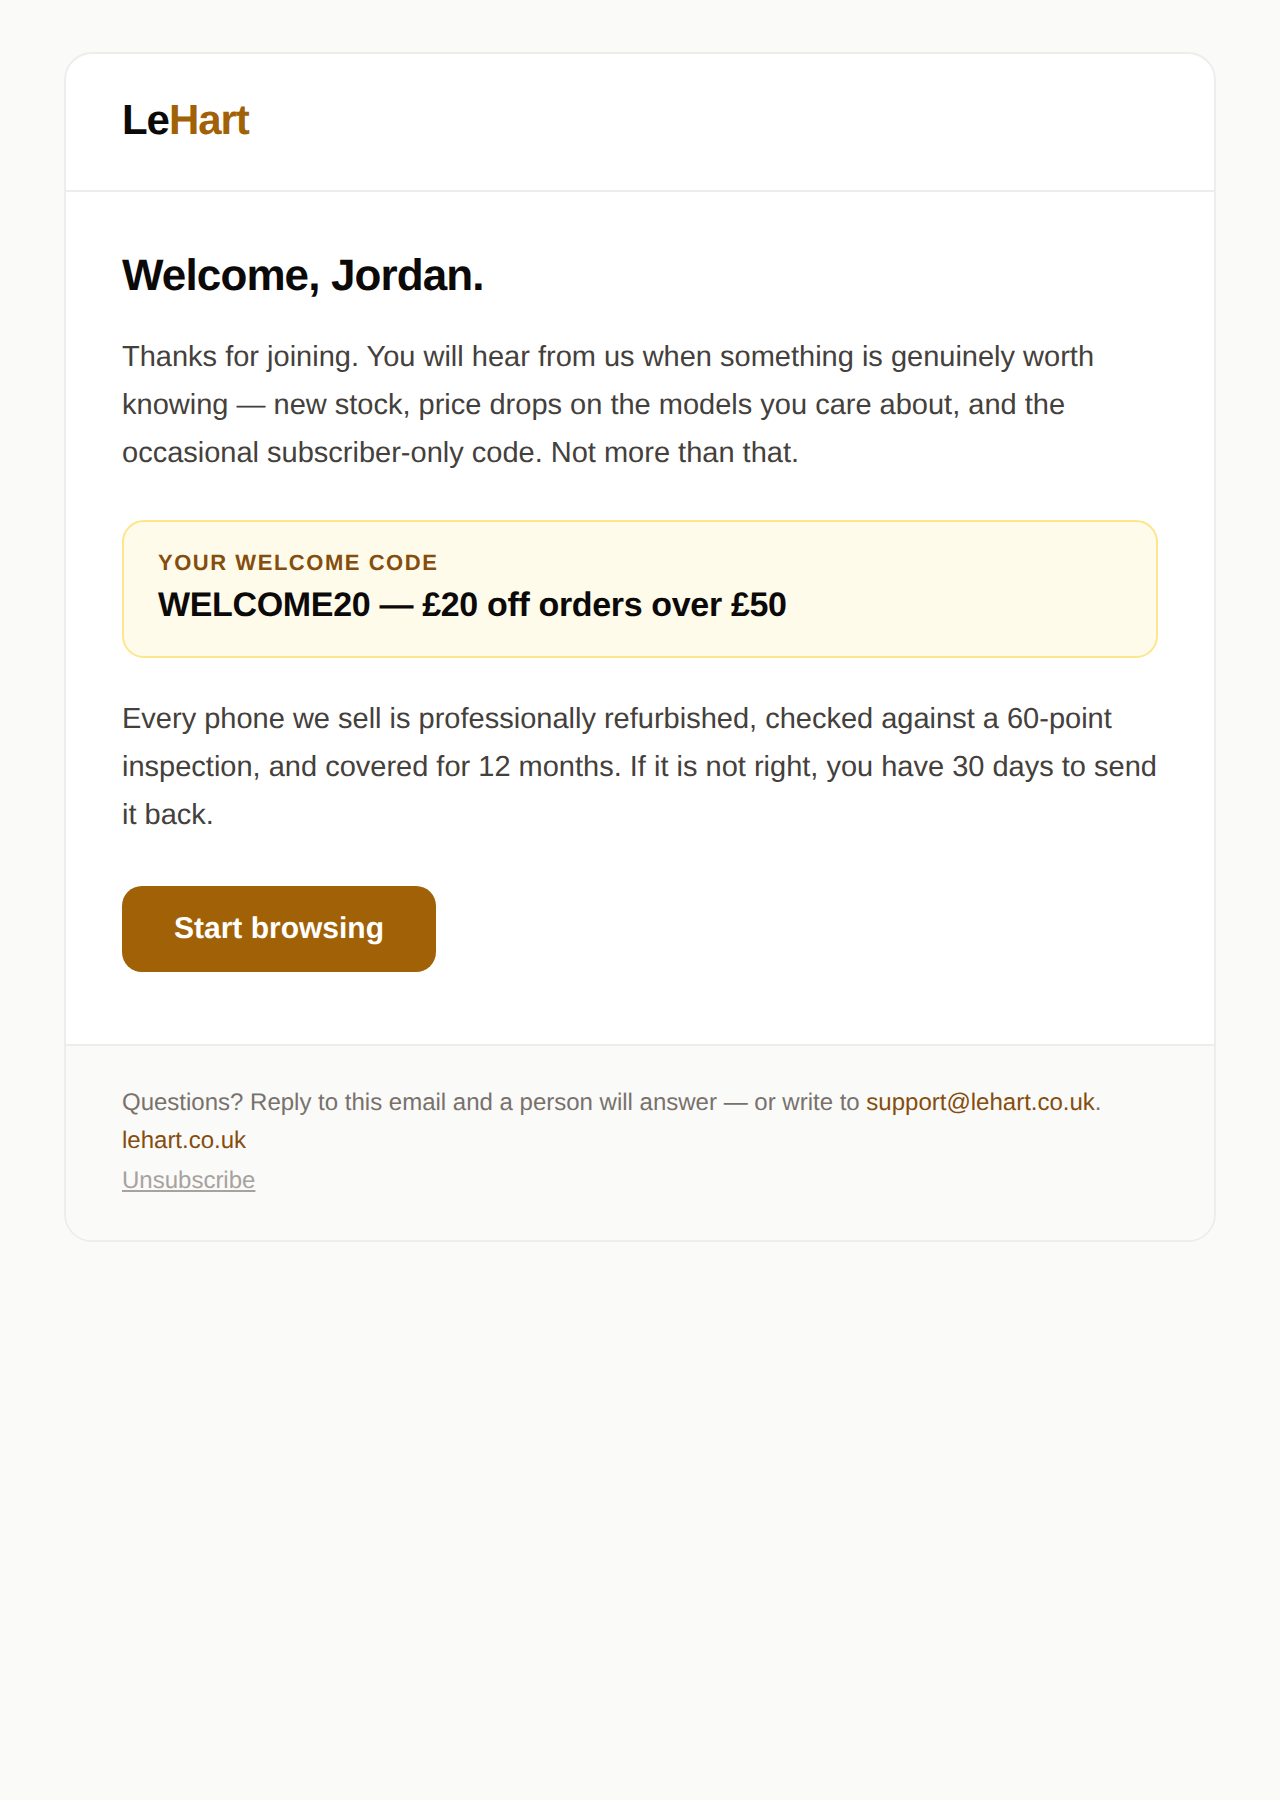
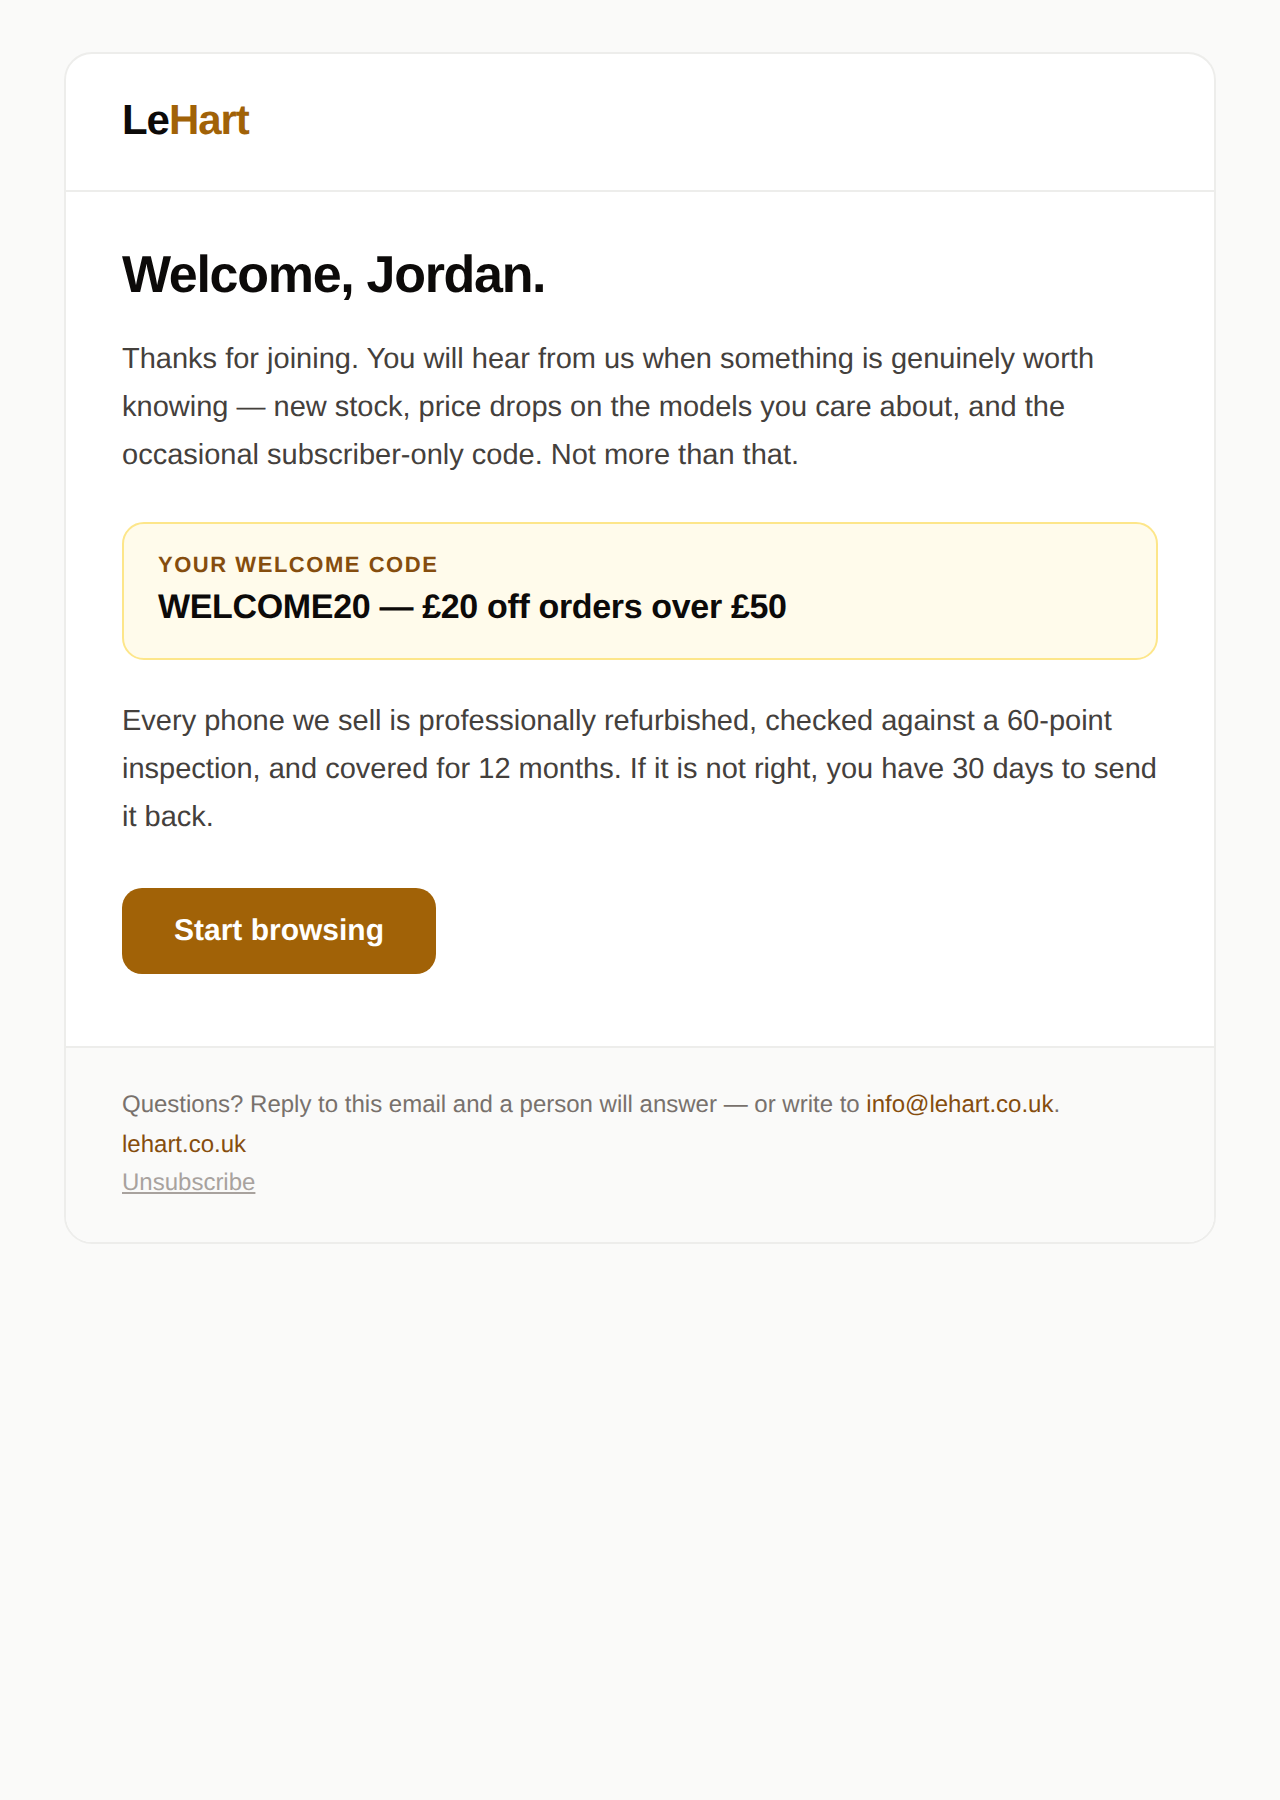
docs: regenerate the email previews
The HTML in docs/email-previews was stale and the PNGs were ten days
older still, so the pictures showed a version of these emails that no
longer existed. Re-rendered from the current templates at 640px, which
is roughly a phone — where nearly all of this mail is read.

Only the preview artefacts change; no template was touched. Dates move
because the samples are generated relative to today.

Two gaps the regeneration made visible and worth noting rather than
hiding: the four returns emails are built inline in return-notify.ts
rather than in _templates.ts, so the generator cannot reach them and
they have no preview at all. And a Chromium render says nothing about
Outlook, which uses Word's engine — the reason every template is tables
rather than flexbox, and something only a real send can confirm.

Claude-Session: https://claude.ai/code/session_01X87B1DePXydz9QYTmFaxZy

diff --git a/docs/email-previews/order-confirmation.html b/docs/email-previews/order-confirmation.html
@@ -4,10 +4,10 @@
 <meta name="viewport" content="width=device-width,initial-scale=1">
 <meta name="color-scheme" content="light only">
 <meta name="supported-color-schemes" content="light only">
-<title>Arriving Tuesday 1 Sept</title>
+<title>Arriving Wednesday 9 Sept</title>
 </head>
 <body style="margin:0;padding:0;background:#fafaf9;">
-<div style="display:none;max-height:0;overflow:hidden;opacity:0;color:transparent;height:0;width:0;">Arriving Tuesday 1 Sept. 3 items.&#847;&zwnj;&nbsp;&#847;&zwnj;&nbsp;&#847;&zwnj;&nbsp;&#847;&zwnj;&nbsp;&#847;&zwnj;&nbsp;&#847;&zwnj;&nbsp;&#847;&zwnj;&nbsp;&#847;&zwnj;&nbsp;&#847;&zwnj;&nbsp;&#847;&zwnj;&nbsp;&#847;&zwnj;&nbsp;&#847;&zwnj;&nbsp;&#847;&zwnj;&nbsp;&#847;&zwnj;&nbsp;&#847;&zwnj;&nbsp;&#847;&zwnj;&nbsp;&#847;&zwnj;&nbsp;&#847;&zwnj;&nbsp;&#847;&zwnj;&nbsp;&#847;&zwnj;&nbsp;&#847;&zwnj;&nbsp;&#847;&zwnj;&nbsp;&#847;&zwnj;&nbsp;&#847;&zwnj;&nbsp;&#847;&zwnj;&nbsp;&#847;&zwnj;&nbsp;&#847;&zwnj;&nbsp;&#847;&zwnj;&nbsp;&#847;&zwnj;&nbsp;&#847;&zwnj;&nbsp;&#847;&zwnj;&nbsp;&#847;&zwnj;&nbsp;&#847;&zwnj;&nbsp;&#847;&zwnj;&nbsp;&#847;&zwnj;&nbsp;&#847;&zwnj;&nbsp;&#847;&zwnj;&nbsp;&#847;&zwnj;&nbsp;&#847;&zwnj;&nbsp;&#847;&zwnj;&nbsp;&#847;&zwnj;&nbsp;&#847;&zwnj;&nbsp;&#847;&zwnj;&nbsp;&#847;&zwnj;&nbsp;&#847;&zwnj;&nbsp;&#847;&zwnj;&nbsp;&#847;&zwnj;&nbsp;&#847;&zwnj;&nbsp;&#847;&zwnj;&nbsp;&#847;&zwnj;&nbsp;&#847;&zwnj;&nbsp;&#847;&zwnj;&nbsp;&#847;&zwnj;&nbsp;&#847;&zwnj;&nbsp;&#847;&zwnj;&nbsp;&#847;&zwnj;&nbsp;&#847;&zwnj;&nbsp;&#847;&zwnj;&nbsp;&#847;&zwnj;&nbsp;&#847;&zwnj;&nbsp;</div>
+<div style="display:none;max-height:0;overflow:hidden;opacity:0;color:transparent;height:0;width:0;">Arriving Wednesday 9 Sept. 3 items.&#847;&zwnj;&nbsp;&#847;&zwnj;&nbsp;&#847;&zwnj;&nbsp;&#847;&zwnj;&nbsp;&#847;&zwnj;&nbsp;&#847;&zwnj;&nbsp;&#847;&zwnj;&nbsp;&#847;&zwnj;&nbsp;&#847;&zwnj;&nbsp;&#847;&zwnj;&nbsp;&#847;&zwnj;&nbsp;&#847;&zwnj;&nbsp;&#847;&zwnj;&nbsp;&#847;&zwnj;&nbsp;&#847;&zwnj;&nbsp;&#847;&zwnj;&nbsp;&#847;&zwnj;&nbsp;&#847;&zwnj;&nbsp;&#847;&zwnj;&nbsp;&#847;&zwnj;&nbsp;&#847;&zwnj;&nbsp;&#847;&zwnj;&nbsp;&#847;&zwnj;&nbsp;&#847;&zwnj;&nbsp;&#847;&zwnj;&nbsp;&#847;&zwnj;&nbsp;&#847;&zwnj;&nbsp;&#847;&zwnj;&nbsp;&#847;&zwnj;&nbsp;&#847;&zwnj;&nbsp;&#847;&zwnj;&nbsp;&#847;&zwnj;&nbsp;&#847;&zwnj;&nbsp;&#847;&zwnj;&nbsp;&#847;&zwnj;&nbsp;&#847;&zwnj;&nbsp;&#847;&zwnj;&nbsp;&#847;&zwnj;&nbsp;&#847;&zwnj;&nbsp;&#847;&zwnj;&nbsp;&#847;&zwnj;&nbsp;&#847;&zwnj;&nbsp;&#847;&zwnj;&nbsp;&#847;&zwnj;&nbsp;&#847;&zwnj;&nbsp;&#847;&zwnj;&nbsp;&#847;&zwnj;&nbsp;&#847;&zwnj;&nbsp;&#847;&zwnj;&nbsp;&#847;&zwnj;&nbsp;&#847;&zwnj;&nbsp;&#847;&zwnj;&nbsp;&#847;&zwnj;&nbsp;&#847;&zwnj;&nbsp;&#847;&zwnj;&nbsp;&#847;&zwnj;&nbsp;&#847;&zwnj;&nbsp;&#847;&zwnj;&nbsp;&#847;&zwnj;&nbsp;&#847;&zwnj;&nbsp;</div>
 <table role="presentation" width="100%" cellpadding="0" cellspacing="0" style="background:#fafaf9;padding:26px 14px;">
 <tr><td align="center">
   <table role="presentation" width="100%" cellpadding="0" cellspacing="0" style="max-width:576px;background:#ffffff;border:1px solid #ededeb;border-radius:14px;overflow:hidden;">
@@ -20,7 +20,7 @@
 
     <tr><td style="padding:26px 28px 30px;">
       <div style="font-family:'Nunito Sans','Rubik',-apple-system,BlinkMacSystemFont,'Segoe UI',Roboto,Helvetica,Arial,sans-serif;font-size:11px;font-weight:800;letter-spacing:0.09em;text-transform:uppercase;color:#78716c;margin-bottom:8px;">Order confirmed</div>
-      <h1 style="margin:0 0 6px;font-family:'Nunito Sans','Rubik',-apple-system,BlinkMacSystemFont,'Segoe UI',Roboto,Helvetica,Arial,sans-serif;font-size:26px;line-height:1.2;font-weight:800;letter-spacing:-0.025em;color:#0c0a09;">Arriving Tuesday 1 Sept</h1>
+      <h1 style="margin:0 0 6px;font-family:'Nunito Sans','Rubik',-apple-system,BlinkMacSystemFont,'Segoe UI',Roboto,Helvetica,Arial,sans-serif;font-size:26px;line-height:1.2;font-weight:800;letter-spacing:-0.025em;color:#0c0a09;">Arriving Wednesday 9 Sept</h1>
       <div style="font-family:'Nunito Sans','Rubik',-apple-system,BlinkMacSystemFont,'Segoe UI',Roboto,Helvetica,Arial,sans-serif;font-size:13px;color:#78716c;margin-bottom:18px;">Order ORD-1756382400123 · 3 items</div>
       <table role="presentation" width="100%" cellpadding="0" cellspacing="0" style="margin:4px 0 26px;">
     <tr valign="top"><td width="25%" align="center" style="padding:0;">
@@ -108,7 +108,7 @@
 
     <tr><td style="padding:19px 28px;border-top:1px solid #ededeb;background:#fafaf9;font-family:'Nunito Sans','Rubik',-apple-system,BlinkMacSystemFont,'Segoe UI',Roboto,Helvetica,Arial,sans-serif;font-size:12px;color:#78716c;line-height:1.65;">
       Questions? Reply to this email and a person will answer — or write to
-      <a href="mailto:support@lehart.co.uk" style="color:#854d0e;text-decoration:none;">support@lehart.co.uk</a>.<br>
+      <a href="mailto:info@lehart.co.uk" style="color:#854d0e;text-decoration:none;">info@lehart.co.uk</a>.<br>
       <a href="https://lehart.co.uk" style="color:#854d0e;text-decoration:none;">lehart.co.uk</a>
       
       

diff --git a/docs/email-previews/abandoned-cart.html b/docs/email-previews/abandoned-cart.html
@@ -57,7 +57,7 @@
 
     <tr><td style="padding:19px 28px;border-top:1px solid #ededeb;background:#fafaf9;font-family:'Nunito Sans','Rubik',-apple-system,BlinkMacSystemFont,'Segoe UI',Roboto,Helvetica,Arial,sans-serif;font-size:12px;color:#78716c;line-height:1.65;">
       Questions? Reply to this email and a person will answer — or write to
-      <a href="mailto:support@lehart.co.uk" style="color:#854d0e;text-decoration:none;">support@lehart.co.uk</a>.<br>
+      <a href="mailto:info@lehart.co.uk" style="color:#854d0e;text-decoration:none;">info@lehart.co.uk</a>.<br>
       <a href="https://lehart.co.uk" style="color:#854d0e;text-decoration:none;">lehart.co.uk</a>
       
       <br><a href="https://lehart.co.uk/unsubscribe?t=demo" style="color:#a8a29e;text-decoration:underline;">Unsubscribe</a>

diff --git a/docs/email-previews/welcome.html b/docs/email-previews/welcome.html
@@ -34,7 +34,7 @@
 
     <tr><td style="padding:19px 28px;border-top:1px solid #ededeb;background:#fafaf9;font-family:'Nunito Sans','Rubik',-apple-system,BlinkMacSystemFont,'Segoe UI',Roboto,Helvetica,Arial,sans-serif;font-size:12px;color:#78716c;line-height:1.65;">
       Questions? Reply to this email and a person will answer — or write to
-      <a href="mailto:support@lehart.co.uk" style="color:#854d0e;text-decoration:none;">support@lehart.co.uk</a>.<br>
+      <a href="mailto:info@lehart.co.uk" style="color:#854d0e;text-decoration:none;">info@lehart.co.uk</a>.<br>
       <a href="https://lehart.co.uk" style="color:#854d0e;text-decoration:none;">lehart.co.uk</a>
       
       <br><a href="https://lehart.co.uk/unsubscribe?t=demo" style="color:#a8a29e;text-decoration:underline;">Unsubscribe</a>

diff --git a/docs/email-previews/account-welcome.html b/docs/email-previews/account-welcome.html
@@ -43,7 +43,7 @@
 
     <tr><td style="padding:19px 28px;border-top:1px solid #ededeb;background:#fafaf9;font-family:'Nunito Sans','Rubik',-apple-system,BlinkMacSystemFont,'Segoe UI',Roboto,Helvetica,Arial,sans-serif;font-size:12px;color:#78716c;line-height:1.65;">
       Questions? Reply to this email and a person will answer — or write to
-      <a href="mailto:support@lehart.co.uk" style="color:#854d0e;text-decoration:none;">support@lehart.co.uk</a>.<br>
+      <a href="mailto:info@lehart.co.uk" style="color:#854d0e;text-decoration:none;">info@lehart.co.uk</a>.<br>
       <a href="https://lehart.co.uk" style="color:#854d0e;text-decoration:none;">lehart.co.uk</a>
       
       

diff --git a/docs/email-previews/dispatched.html b/docs/email-previews/dispatched.html
@@ -86,7 +86,7 @@
 
     <tr><td style="padding:19px 28px;border-top:1px solid #ededeb;background:#fafaf9;font-family:'Nunito Sans','Rubik',-apple-system,BlinkMacSystemFont,'Segoe UI',Roboto,Helvetica,Arial,sans-serif;font-size:12px;color:#78716c;line-height:1.65;">
       Questions? Reply to this email and a person will answer — or write to
-      <a href="mailto:support@lehart.co.uk" style="color:#854d0e;text-decoration:none;">support@lehart.co.uk</a>.<br>
+      <a href="mailto:info@lehart.co.uk" style="color:#854d0e;text-decoration:none;">info@lehart.co.uk</a>.<br>
       <a href="https://lehart.co.uk" style="color:#854d0e;text-decoration:none;">lehart.co.uk</a>
       
       

diff --git a/docs/email-previews/out-for-delivery.html b/docs/email-previews/out-for-delivery.html
@@ -68,7 +68,7 @@
 
     <tr><td style="padding:19px 28px;border-top:1px solid #ededeb;background:#fafaf9;font-family:'Nunito Sans','Rubik',-apple-system,BlinkMacSystemFont,'Segoe UI',Roboto,Helvetica,Arial,sans-serif;font-size:12px;color:#78716c;line-height:1.65;">
       Questions? Reply to this email and a person will answer — or write to
-      <a href="mailto:support@lehart.co.uk" style="color:#854d0e;text-decoration:none;">support@lehart.co.uk</a>.<br>
+      <a href="mailto:info@lehart.co.uk" style="color:#854d0e;text-decoration:none;">info@lehart.co.uk</a>.<br>
       <a href="https://lehart.co.uk" style="color:#854d0e;text-decoration:none;">lehart.co.uk</a>
       
       

diff --git a/docs/email-previews/index.html b/docs/email-previews/index.html
@@ -26,7 +26,7 @@
     <iframe src="./welcome.html" title="Welcome" loading="lazy"></iframe>
   </div>
   <div class="pane">
-    <div class="bar"><b>Order confirmation</b><span>Arriving Tuesday 1 Sept — order ORD-1756382400123 confirmed</span></div>
+    <div class="bar"><b>Order confirmation</b><span>Arriving Wednesday 9 Sept — order ORD-1756382400123 confirmed</span></div>
     <iframe src="./order-confirmation.html" title="Order confirmation" loading="lazy"></iframe>
   </div>
   <div class="pane">
